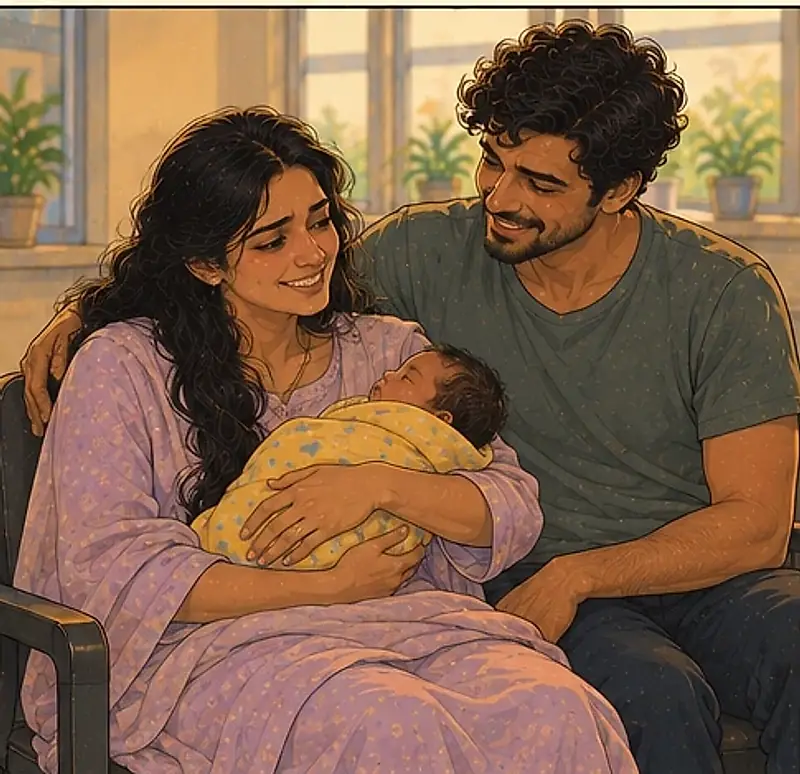
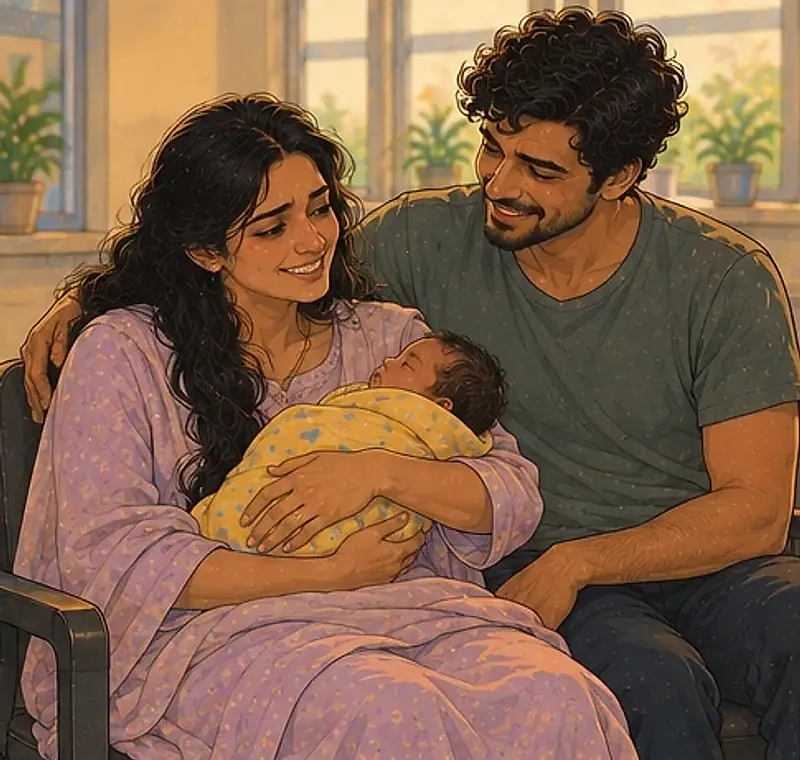
Heart Failure case 10 illustrations; cleaner crops; picture prompt hf-11
- cut-sheet.ts takes --gutter=0.45 for sheets whose gutters come out darker
- re-cut hf-04's top row and trimmed arr-12 03/04, which had a cream strip at one edge

diff --git a/scripts/cut-sheet.ts b/scripts/cut-sheet.ts
@@ -9,11 +9,16 @@ import { mkdirSync, readFileSync, writeFileSync } from 'node:fs';
 import { join } from 'node:path';
 
 const LIGHT = 215; // every channel at least this → cream paper
-const GUTTER = 0.85; // share of light pixels that makes a row/column a gutter
+// share of light pixels that makes a row/column a gutter; lower it with --gutter=0.45 when a sheet's
+// gutters come out darker (a crop then shows a cream strip and border line at its edge)
+const gutterArg = process.argv.find((a) => a.startsWith('--gutter='));
+const GUTTER = gutterArg ? Number(gutterArg.slice('--gutter='.length)) : 0.85;
 const MIN_PANEL = 60; // px; shorter runs are borders or noise
 const INSET = 5; // px trimmed inside each panel to drop its dark border
 
-const [sheet, folder, colsArg, namesArg, caseFile] = process.argv.slice(2);
+const [sheet, folder, colsArg, namesArg, caseFile] = process.argv
+  .slice(2)
+  .filter((a) => !a.startsWith('--'));
 if (!sheet || !folder || !colsArg || !namesArg) {
   console.error('Usage: node scripts/cut-sheet.ts <sheet> <folder> <cols> <names> [case.yaml]');
   process.exit(1);

diff --git a/docs/art/hf-11-prompts.md b/docs/art/hf-11-prompts.md
@@ -1,0 +1,18 @@
+# Heart Failure case 11 (hf-11) — ChatGPT prompt (one paste)
+
+Upload `docs/art/cast-reference.png` first, then paste the block below. One image back: 3 panels in a
+2 × 2 grid (last cell blank); Claude cuts it into `content/assets/art/hf-11/`.
+
+```
+The image I've uploaded shows the recurring hospital staff. Make ONE tall portrait image (2:3): a comic page of 3 panels in a grid of 2 columns × 2 rows, read left to right, top to bottom, separated by thin cream gutters, each panel with a thin dark border. Leave the last cell (bottom right) as plain cream paper.
+
+STYLE: exactly like the uploaded image: muted retro storybook illustration, flat gouache colours, soft shading, visible paper grain, clean dark ink outlines; warm, slightly desaturated palette. Setting: a government hospital in India. Realistic, respectful, never gory. NO text anywhere: no letters, numbers, signs, logos or speech bubbles; screens and papers show only faint lines.
+
+NEW PEOPLE (different from anyone in earlier images): THE PATIENT, 40-year-old Indian man, very thin and wasted, with sunken cheeks but flushed, warm-looking skin, short untidy black hair, a scruffy beard, puffy ankles and a bloated face; a faded yellow T-shirt and a dhoti in panel 1; a white kurta in panels 2 and 3. He looks about forty but worn out. HIS SISTER, about 38, a red cotton sari, hair in a plait, a worried, determined face.
+
+Keep people in the left-to-right order given in each panel.
+
+Panel 1: ED triage area at night, cool fluorescent light. Left to right: THE PATIENT slumped in a wheelchair, breathless, his swollen feet visible, rubbing his tingling feet; HIS SISTER standing beside him, worried, explaining with one hand raised.
+Panel 2: Five days later, a bright medical ward, daylight. Left to right: THE PATIENT sitting up in bed in a white kurta, alert and relieved, his ankles slim again, eating rice and dal from a steel plate; HIS SISTER sitting beside the bed, relieved and smiling.
+Panel 3: Ten days later, the same ward on a grey day. Left to right: THE PATIENT lying in bed in his kurta, tired and worried, a drip running, nasal oxygen; HIS SISTER sitting beside the bed, worried, holding his hand.
+```
